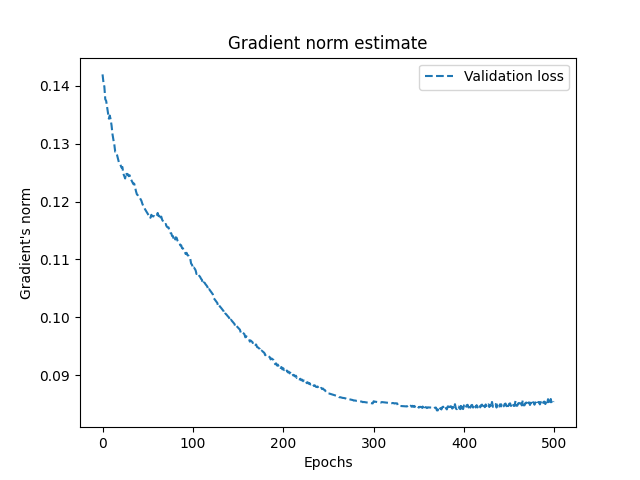
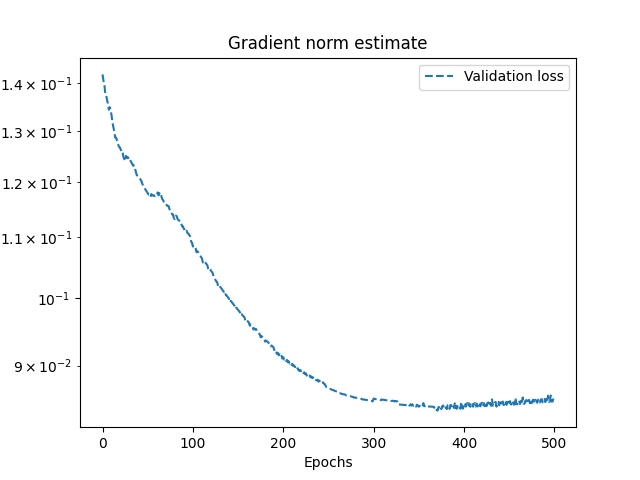
added results

diff --git a/src/NN/Network.py b/src/NN/Network.py
@@ -463,11 +463,12 @@ class Network(BaseEstimator, metaclass=ABCMeta):
         val_res = self.val_scores if score else self.val_loss
         train_res = self.train_scores if score else self.train_loss
 
-        plt.plot(val_res, '--', label='Validation loss')
-        plt.plot(train_res, '--', label='Training loss')
+        plt.semilogy(val_res, '--', label='Validation loss')
+        plt.semilogy(train_res, '--', label='Training loss')
         plt.legend(loc='best')
         plt.xlabel ('Epochs')
         plt.ylabel ('Loss')
+        # plt.yscale('log')
         plt.title ('Loss NN CUP dataset')
         plt.draw()
 
@@ -490,6 +491,7 @@ class Network(BaseEstimator, metaclass=ABCMeta):
         plt.xlabel ('Epochs')
         plt.ylabel ('Gradient\'s norm')
         plt.title ('Gradient norm estimate')
+        plt.yscale('log')
         plt.draw()
 
         plt.savefig(f"src/NN/res/grads/{name}ep{self.epochs}s{self.sizes}b{self.batch_size}e{self.eta}lmbda{self.lmbda}m{self.momentum}.png")

diff --git a/src/NN/testNET.py b/src/NN/testNET.py
@@ -219,7 +219,8 @@ if __name__ == '__main__':
 
         X_train, X_test, y_train, y_test = train_test_split(X_train, y_train, test_size=0.2, random_state=42)
         net.fit(X_train, y_train, test_data=(X_test, y_test))
-        net.plot_results(f"{dataset}_{test}", score=False)
+        net.plot_results(f"asdddddd", score=False)
+        # net.plot_results(f"{dataset}_{test}", score=False)
         net.plot_grad(f"{dataset}_{test}")
         print(net.best_score())
     
